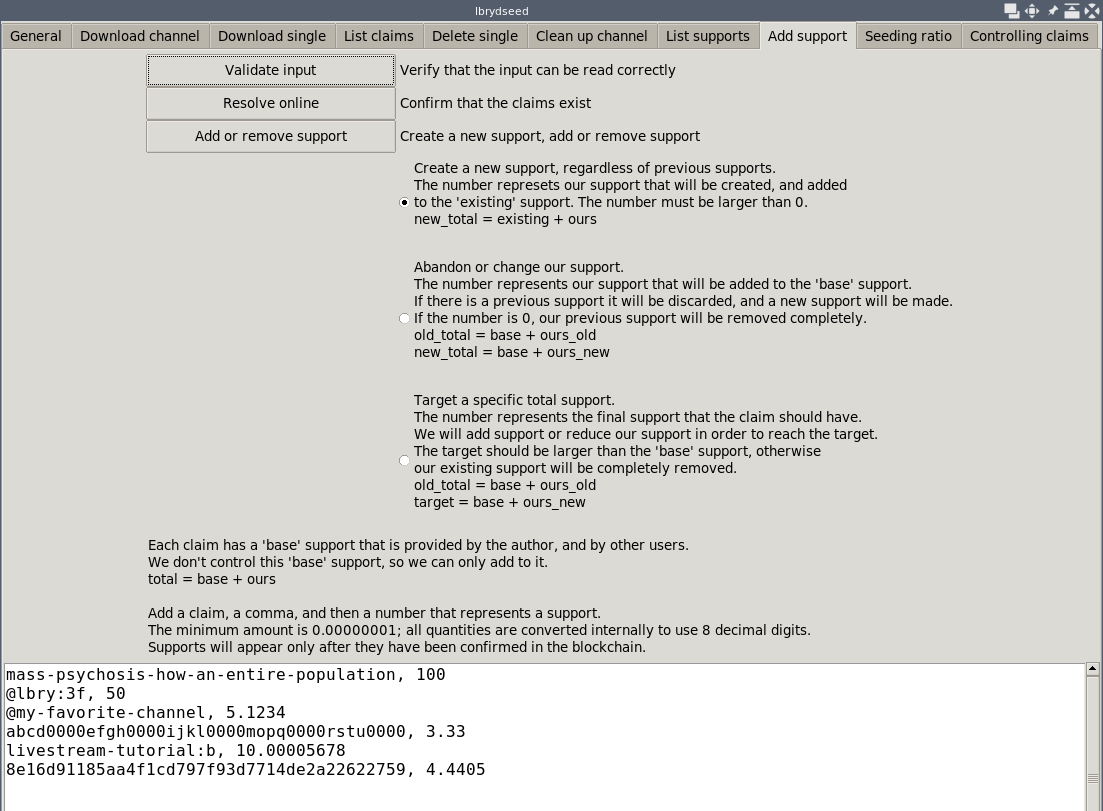
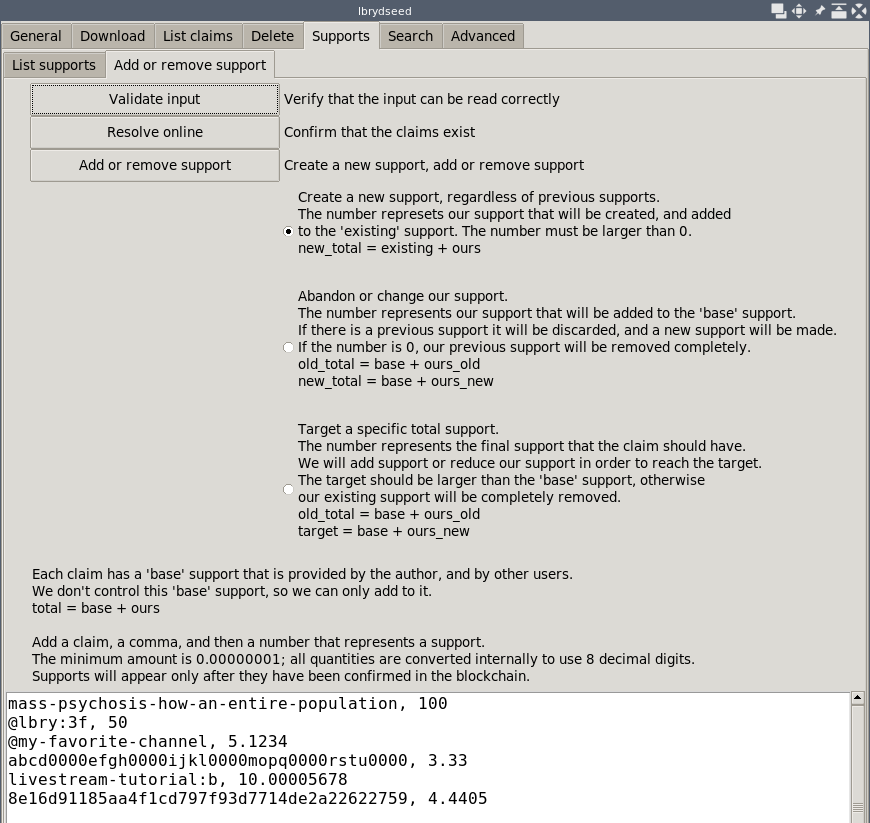
README: update documentation with new pages
The new interface arranges pages in sub-notebooks contained
inside the main notebook.

New images for the `TrendPage` and the `SearchPage`.

Changed region(s): [[0.0, 0.0, 1.0, 1.0], [0.4966, 0.9556, 0.5586, 0.9864], [0.931, 0.4007, 0.9621, 0.4316]]

diff --git a/README.md b/README.md
@@ -182,6 +182,17 @@ and then press `"Add or remove support"`.
 
 ![lbryseed_add_support](./g_lbrydseed_add_support.png)
 
+Press `"Show trending claims"` to show the claims that are trending
+on the network at the moment.
+
+![lbryseed_trending](./g_lbrydseed_trending.png)
+
+Press `"Search"` to search the string, and tags, if any.
+At the moment, the search functionality is very basic, so using simple words
+is better than long sentences.
+
+![lbryseed_search](./g_lbrydseed_search.png)
+
 Press `"Display seeding ratio"` to show an estimate of the blobs uploaded
 and downloaded.
 
